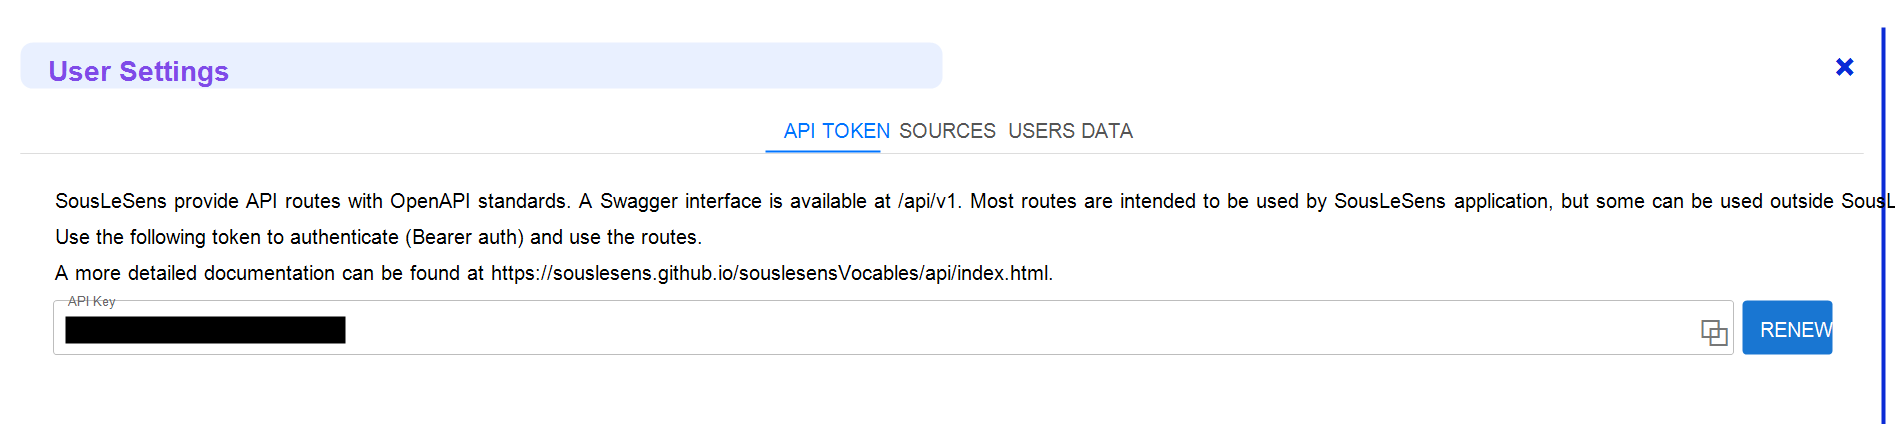
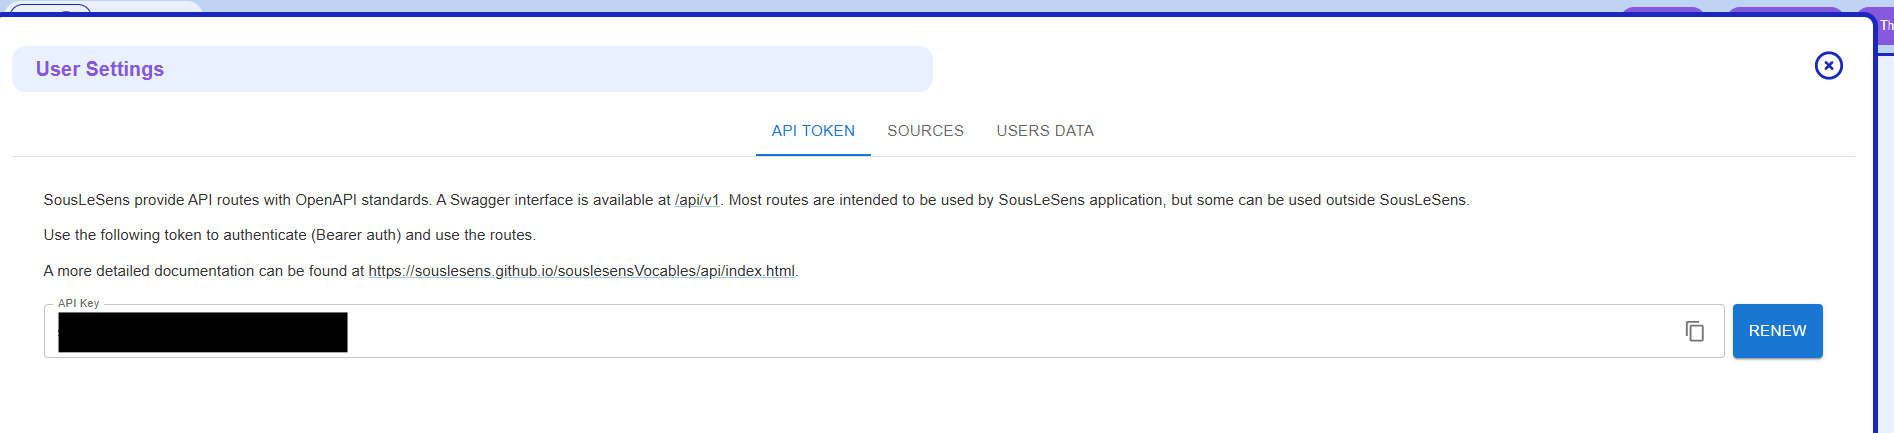
chore(doc): add AI API docs

diff --git a/docs/docs/devdoc/codedoc/architecture/bin/AI/index.md b/docs/docs/devdoc/codedoc/architecture/bin/AI/index.md
@@ -1,0 +1,55 @@
+<!-- AUTO-GENERATED: do not edit by hand -->
+# AI
+
+<!-- AUTO-DESC:START -->
+
+## Overview
+
+The `bin/AI` module contains the server-side LLM integration used by AI API routes.
+
+`llmClient.js` reads `mainConfig.llm`, selects the configured provider adapter, applies token budget
+checks with `rateLimitTPM`, decrypts encrypted API keys when needed, and exposes `complete` and
+`createMessage` calls to route handlers.
+
+## Modules
+
+### Client and secrets
+
+-   `llmClient.js`: provider selection, retry, token counting and rate-limit budget.
+-   `secret.js`: encryption and decryption helpers for values stored as `enc:v1:...`.
+-   `encryptKey.js`: CLI helper for encrypting `llm.<provider>.apiKey`.
+
+### Adapters
+
+-   `adapters/anthropicAdapter.js`: Anthropic Messages API adapter.
+-   `adapters/openRouterAdapter.js`: OpenRouter chat-completions adapter normalized to the Anthropic
+    response shape.
+-   `adapters/ollamaAdapter.js`: local Ollama chat adapter normalized to the Anthropic response
+    shape.
+
+### Prompts
+
+-   `prompts/classify_tests.md`: prompt used by `GET /api/v1/classify`.
+-   `prompts/semantic_alignment_prompt.md`: prompt used by `POST /api/v1/alignment`.
+
+<!-- AUTO-DESC:END -->
+
+```{toctree}
+:maxdepth: 5
+:caption: Contents
+
+adapters/index
+data/index
+docs/index
+prompts/index
+```
+
+<!-- AUTO-INLINE-FILES:START -->
+
+## Files in this directory
+
+- `encryptKey.js`
+- `llmClient.js`
+- `secret.js`
+
+<!-- AUTO-INLINE-FILES:END -->

diff --git a/docs/docs/devdoc/codedoc/architecture/api/v1/paths/ai.md b/docs/docs/devdoc/codedoc/architecture/api/v1/paths/ai.md
@@ -1,0 +1,26 @@
+<!-- AUTO-GENERATED: do not edit by hand -->
+# AI routes
+
+<!-- AUTO-DESC:START -->
+
+## Overview
+
+AI routes expose LLM-backed operations through the HTTP API. They use `bin/AI/llmClient.js`, which
+selects the provider configured in `mainConfig.llm`.
+
+The OpenAPI descriptions live directly in the route files through `GET.apiDoc` and `POST.apiDoc`.
+Swagger exposes them under the `AI` tag at `/api/v1/#/AI`.
+
+## Modules
+
+### `classify.js`
+
+`GET /api/v1/classify` reads `bin/AI/prompts/classify_tests.md`, sends it to the configured LLM and
+returns the model, raw output and token usage.
+
+### `alignment.js`
+
+`POST /api/v1/alignment` reads `bin/AI/prompts/semantic_alignment_prompt.md`, classifies non-exact
+label matches, and returns classifications, category counts and token usage.
+
+<!-- AUTO-DESC:END -->

diff --git a/docs/docs/devdoc/codedoc/architecture/bin/AI/adapters/index.md b/docs/docs/devdoc/codedoc/architecture/bin/AI/adapters/index.md
@@ -1,0 +1,23 @@
+<!-- AUTO-GENERATED: do not edit by hand -->
+# Adapters
+
+<!-- AUTO-DESC:START -->
+
+Provider adapters expose the same interface to `llmClient.js`: `complete`, `createMessage` and
+`countTokens`.
+
+-   `anthropicAdapter.js`: calls the Anthropic SDK.
+-   `openRouterAdapter.js`: calls OpenRouter and normalizes the response.
+-   `ollamaAdapter.js`: calls a local Ollama server and normalizes the response.
+
+<!-- AUTO-DESC:END -->
+
+<!-- AUTO-INLINE-FILES:START -->
+
+## Files in this directory
+
+- `anthropicAdapter.js`
+- `ollamaAdapter.js`
+- `openRouterAdapter.js`
+
+<!-- AUTO-INLINE-FILES:END -->

diff --git a/docs/docs/devdoc/codedoc/architecture/bin/AI/prompts/index.md b/docs/docs/devdoc/codedoc/architecture/bin/AI/prompts/index.md
@@ -1,0 +1,21 @@
+<!-- AUTO-GENERATED: do not edit by hand -->
+# Prompts
+
+<!-- AUTO-DESC:START -->
+
+Prompt files consumed by AI API routes.
+
+-   `classify_tests.md`: used by `GET /api/v1/classify`.
+-   `semantic_alignment_prompt.md`: used by `POST /api/v1/alignment`.
+
+<!-- AUTO-DESC:END -->
+
+<!-- AUTO-INLINE-FILES:START -->
+
+## Files in this directory
+
+- `alignement_semantique.md`
+- `classify_tests.md`
+- `semantic_alignment_prompt.md`
+
+<!-- AUTO-INLINE-FILES:END -->

diff --git a/docs/docs/api/ai.md b/docs/docs/api/ai.md
@@ -1,0 +1,16 @@
+# AI
+
+AI routes use the LLM provider configured in `mainConfig.llm`. The full OpenAPI contract is available
+in Swagger at `/api/v1/#/AI`.
+
+These routes require administrator access and bearer-token authentication.
+
+## Routes
+
+-   `GET /api/v1/classify`: runs the test prompt from `bin/AI/prompts/classify_tests.md` through
+    the configured LLM and returns the model, raw output and token usage.
+-   `POST /api/v1/alignment`: classifies non-exact label matches with
+    `bin/AI/prompts/semantic_alignment_prompt.md` and returns classifications, category counts and
+    token usage.
+
+The active model and provider are not selected per request. They come from `mainConfig.llm`.

diff --git a/docs/docs/devdoc/codedoc/architecture/bin/AI/data/index.md b/docs/docs/devdoc/codedoc/architecture/bin/AI/data/index.md
@@ -1,0 +1,16 @@
+<!-- AUTO-GENERATED: do not edit by hand -->
+# Data
+
+<!-- AUTO-DESC:START -->
+
+Data fixtures used while developing or testing AI flows.
+
+<!-- AUTO-DESC:END -->
+
+<!-- AUTO-INLINE-FILES:START -->
+
+## Files in this directory
+
+- `alignment_input.json`
+
+<!-- AUTO-INLINE-FILES:END -->

diff --git a/docs/docs/devdoc/codedoc/architecture/bin/AI/docs/index.md b/docs/docs/devdoc/codedoc/architecture/bin/AI/docs/index.md
@@ -1,0 +1,16 @@
+<!-- AUTO-GENERATED: do not edit by hand -->
+# Docs
+
+<!-- AUTO-DESC:START -->
+
+Internal notes for AI integration strategy, especially provider adapters and OpenRouter usage.
+
+<!-- AUTO-DESC:END -->
+
+<!-- AUTO-INLINE-FILES:START -->
+
+## Files in this directory
+
+- `strategie-adapters-llm-openrouter.md`
+
+<!-- AUTO-INLINE-FILES:END -->

diff --git a/docs/docs/api/index.md b/docs/docs/api/index.md
@@ -16,15 +16,15 @@ To generate or copy your bearer token:
 
 1. Open the user menu in the top-right corner and click **UserSettings**.
 
-   ![Open UserSettings from the user menu](images/media/api/open-user-settings.png)
+   ![Open UserSettings from the user menu](./images/media/api/open-user-settings.png)
 
-2. In the **User Settings** dialog, go to the **API TOKEN** section.
+2. In the **User Settings** dialog, select the **API TOKEN** tab.
 
-   ![Navigate to the API TOKEN section](images/media/api/user-settings-sections.png)
+   ![Select the API TOKEN tab](./images/media/api/user-settings-sections.png)
 
 3. Copy the current token from the **API Key** field, or click **RENEW** to generate a new one.
 
-   ![Copy or renew the API token](images/media/api/copy-or-renew-api-token.png)
+   ![Copy or renew the API token](./images/media/api/copy-or-renew-api-token.png)
 
 ```shell
 curl --header "authorization: Bearer xxx" http://sls.example.org/api/v1/users/me
@@ -32,6 +32,6 @@ curl --header "authorization: Bearer xxx" http://sls.example.org/api/v1/users/me
 
 ```{toctree}
 :maxdepth: 3
+ai.md
 userdata.md
 ```
-

diff --git a/docs/docs/devdoc/codedoc/architecture/api/v1/paths/index.md b/docs/docs/devdoc/codedoc/architecture/api/v1/paths/index.md
@@ -15,6 +15,7 @@ Each subdirectory represents a coherent set of endpoints (such as users, authent
 
 ## Contents
 
+- [AI routes](ai.md)
 - [Core routes](core.md)
 - [Authentication](auth/index.md)
 - [Administration](admin/index.md)
@@ -37,6 +38,7 @@ Each subdirectory represents a coherent set of endpoints (such as users, authent
 :maxdepth: 5
 :caption: Contents
 
+ai
 admin/index
 annotator/index
 auth/index
@@ -59,8 +61,10 @@ users/index
 
 ## Files in this directory
 
+- `alignment.js`
 - `annotate.js`
 - `blenderSources.js`
+- `classify.js`
 - `config.js`
 - `copygraph.js`
 - `databases.js`

diff --git a/docs/docs/devdoc/codedoc/architecture/bin/index.md b/docs/docs/devdoc/codedoc/architecture/bin/index.md
@@ -125,6 +125,7 @@ Backend modules are organized as Express.js route handlers and standalone utilit
 :maxdepth: 5
 :caption: Contents
 
+AI/index
 annotator/index
 axioms/index
 KG/index